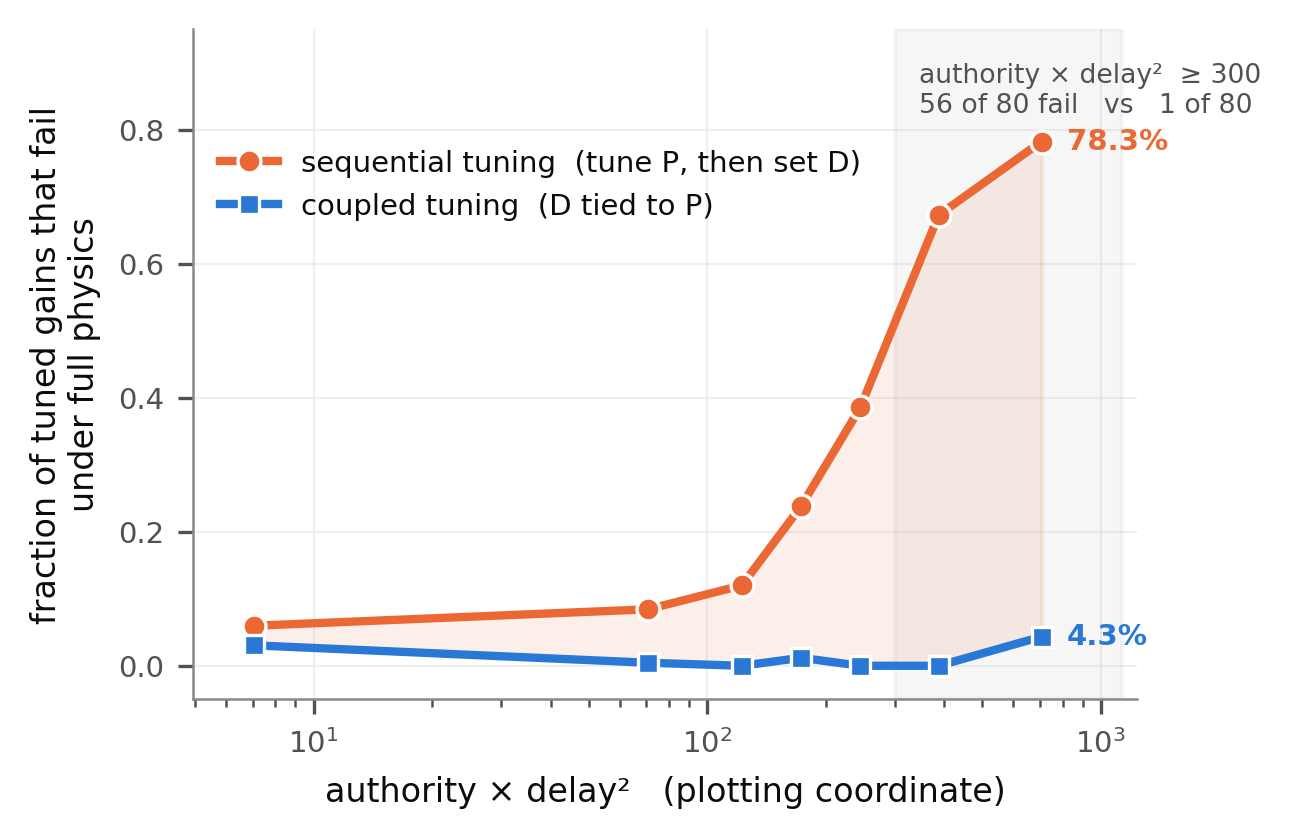
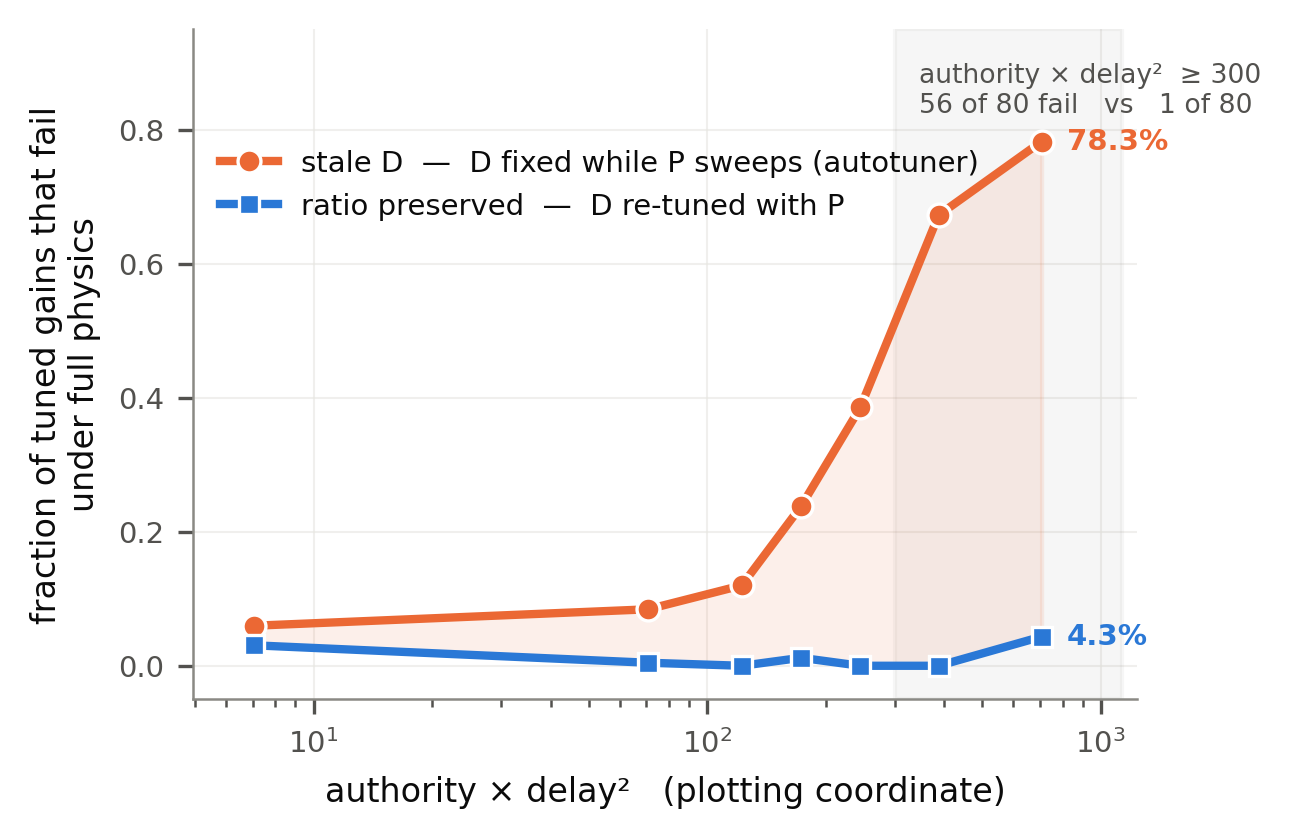
Rename the mechanism to stale-D; external validity becomes a prescription, not an ethnography
Domain correction from Braxton, 2026-08-09. Hobbyists do NOT set D once and crank P. Real manual
practice is ALTERNATING -- adjust P, re-adjust D, iteratively -- which roughly maintains the ratio
and therefore sits OUTSIDE the regime this project measured. We have no data on manual tuning at all.

Three changes, all of which make the claim narrower and more defensible:

1. NAMING. The artifact is D held fixed while P sweeps: "stale-D" or "decoupled" tuning, which is
   what autotune_continuous does (probe D once at P=40, freeze, sweep P to 320). "Sequential tuning"
   is retired as a label -- readers hear it as the normal alternating practice. Renamed in the
   outline, the claim/evidence table, CLAUDE.md, and in the legends of Figures 8 and 9, which had
   been shipping the wrong word.

2. EXTERNAL VALIDITY becomes a prescription rather than a claim about the field:
       maintain the P:D ratio; re-tune D after any change to P before judging stability
   with the audience named explicitly -- automated tuners and simulation campaigns, where D is
   commonly fixed once and P then swept. That is exactly the protocol that produced six retired
   sections of this project's own prior work, so the paper has direct evidence for that audience.
   A builder tuning by hand is already doing the right thing.

3. CLAIMS LEDGER added to paper/CLAIM_EVIDENCE_TABLE.md, recording this ruling plus the three
[…]

Changed region(s): [[0.2479, 0.1862, 0.7746, 0.2792]]

diff --git a/paper/make_sts_figures.py b/paper/make_sts_figures.py
@@ -204,7 +204,13 @@ def fig7():
 
 
 def fig8():
-    """THE key figure: same designs, same axis, only the tuner differs."""
+    """THE key figure: same designs, same axis, only what the tuner does to D when P moves.
+
+    NOTE the labelling. This is NOT "sequential vs coupled tuning" -- readers hear "sequential" as
+    ordinary manual practice, which is ALTERNATING (adjust P, re-adjust D, repeat) and preserves the
+    ratio. The artifact is specifically D held STALE while P sweeps, which is what autotuners and
+    sim campaigns do. This project measured no manual tuning (Braxton, domain correction 2026-08-09).
+    """
     d = _s2r()
     bins = [0, 50, 100, 150, 200, 300, 500, 1000]
     mid, a, b, n = [], [], [], []
@@ -216,9 +222,9 @@ def fig8():
         a.append(g.fail_a_gate035.mean()); b.append(g.fail_b_gate035.mean()); n.append(len(g))
     fig, ax = plt.subplots(figsize=(FULL * 0.58, 2.9))
     ax.plot(mid, a, color=ORANGE, lw=2.0, marker="o", ms=5.5, mec="white", mew=.8, zorder=5,
-            label="sequential tuning  (tune P, then set D)")
+            label="stale D  —  D fixed while P sweeps (autotuner)")
     ax.plot(mid, b, color=BLUE, lw=2.0, marker="s", ms=5, mec="white", mew=.8, zorder=5,
-            label="coupled tuning  (D tied to P)")
+            label="ratio preserved  —  D re-tuned with P")
     ax.fill_between(mid, b, a, color=ORANGE, alpha=.10, zorder=2)
     # Label each endpoint with ITS OWN bin value. An earlier version put the aggregate
     # Pi>=300 rates (70.0% / 1.3%) on these points, which are 78.3% / 4.3% -- two wrong
@@ -247,11 +253,11 @@ def fig8():
 
 # ---- Fig 9: the mechanism -----------------------------------------------------
 def fig9():
-    """Why sequential tuning fails: the frozen Kd is chosen at one Kp and held."""
+    """Why stale-D tuning fails: D is chosen at one probe gain and then held while P sweeps."""
     fig, ax = plt.subplots(figsize=(COL, 2.6))
     kp = np.geomspace(1, 320, 200)
-    ax.plot(kp, 0.05 * kp, color=BLUE, lw=1.8, zorder=4, label="coupled: D tracks P")
-    ax.axhline(2.0, color=ORANGE, lw=1.8, zorder=4, label="sequential: D frozen at the probe")
+    ax.plot(kp, 0.05 * kp, color=BLUE, lw=1.8, zorder=4, label="ratio preserved: D re-tuned with P")
+    ax.axhline(2.0, color=ORANGE, lw=1.8, zorder=4, label="stale D: frozen at the probe gain")
     ax.axvline(40, color=MUTED, lw=.8, ls=(0, (3, 3)), zorder=3)
     ax.annotate("D chosen here\n(probe gain, P = 40)", (40, 11), fontsize=6.2, color=INK2,
                 ha="center", va="top")

diff --git a/paper/OUTLINE_STS.md b/paper/OUTLINE_STS.md
@@ -15,6 +15,17 @@ paper that axis is called **authority×delay** and is presented as a *plotting c
 never named Π, never described as dimensionless, invariant, or a discovered parameter. The screen is
 stated in terms of the four measurable numbers (thrust, nozzle arm, Iyy, loop delay), not a composite.
 
+
+**Mechanism-naming rule (Braxton, 2026-08-09 — domain correction).** The artifact is **D held fixed
+while P sweeps** — call it **stale-D** or **decoupled** tuning. That is what `autotune_continuous`
+does: probe D once at P = 40, freeze it, sweep P to 320.
+
+**Do NOT call it "sequential tuning."** Readers hear that as normal manual practice, and normal
+manual practice is *alternating* — a builder adjusts P, then re-adjusts D, iteratively, which roughly
+maintains the ratio and therefore sits **outside** the artifact regime. **This project has no data on
+manual tuning.** Any sentence implying hobbyists tune the way the autotuner does is unsupported and
+must not appear in §6, §10, or the abstract.
+
 **All sections are decided.** The one conditional — §5's window sections — was resolved 2026-08-09 by
 `tools/window_kd_free.py`: the control passed and the window narrowing did not survive a free Kd, so
 those sections are cut. See §5.
@@ -67,7 +78,7 @@ Figure count drops to **11** with Fig 5 cut.
 
 | tag | claim | strongest number | § | fig |
 |---|---|---|---|---|
-| **C-KD** | Sequential tuning (P then D) causes the failures; coupling Kd to Kp removes them | **56/80 → 1/80** at high risk; ρ +0.236 vs −0.117 | 6 | 8, 9 |
+| **C-KD** | Holding D fixed while P sweeps (stale-D) causes the failures; re-tuning D with P removes them | **56/80 → 1/80** at high risk; ρ +0.236 vs −0.117 | 6 | 8, 9 |
 | **C-S2R** | A gain tuned in still air fails under full physics, with a monotone dose-response | 6.0% → **78.3%** across authority×delay bins, n=2400 | 6 | 7 |
 | **C-CEILING** | The usable-gain ceiling is set by loop delay, not authority — **at a fixed Kd** | keff **−0.082** CI [−0.21,+0.05]; τ **−1.067**; control ρ −0.762 vs −0.74 | 5 | 6 |
 | **C-INERTIA** | Failing builds are low-inertia builds | **100%** of the 36 failing designs below the 25th pctile of Iyy | 4 | 3 |
@@ -80,7 +91,9 @@ Figure count drops to **11** with Fig 5 cut.
 Π = keff·τ² and every dimensionless-invariant framing · the causal saturation-removal result ·
 the `window_ratio` family *as originally measured* · the binary classifier as a headline ·
 "thrust is irrelevant or protective" · "strong p_unstable interaction" ·
-"each correction strengthened the AUC"
+"each correction strengthened the AUC" · **"sequential tuning is what hobbyists do" / any claim that
+common manual practice sits inside the artifact regime** — manual practice is *alternating* and this
+project measured no manual tuning at all (Braxton, domain correction, 2026-08-09)
 
 ---
 
@@ -94,8 +107,9 @@ they are the paper's spine. Close on what the paper measures, not what it discov
 *No figure.*
 
 ### §2 Background — 0.75 pp
-What is already known: the delay-margin gain ceiling is classical (Ziegler–Nichols; standard
-sequential PID tuning is P-then-D by construction). Say plainly that **C-CEILING is a re-derivation
+What is already known: the delay-margin gain ceiling is classical. Mention Ziegler–Nichols as the
+classical *procedure* for finding gains — but do NOT use it to argue that builders leave D stale;
+that inference is not supported. Say plainly that **C-CEILING is a re-derivation
 in a new domain, not a discovery** — claiming otherwise is the fastest way to lose a controls
 reviewer. Note the absence of hobby-scale TVC in the literature. STS guidelines forbid a long
 literature history: keep it short.
@@ -103,8 +117,8 @@ literature history: keep it short.
 
 ### §3 Methods — 2.5 pp
 Simulator and the 10 fidelity modules; the 2,400-design LHS space with parameter ranges; the
-gain-search protocols (this matters — the whole paper turns on tuning method, so both the sequential
-and coupled tuners need describing precisely); disjoint seed ranges per experiment.
+gain-search protocols (this matters — the whole paper turns on tuning method, so both the stale-D
+and ratio-preserving tuners need describing precisely, in terms of what each does to D when P moves); disjoint seed ranges per experiment.
 
 **Two discipline items that belong here and are worth the space:**
 - **One success criterion, stated once.** SR ≥ 0.80 throughout. Where the earlier work reported
@@ -205,8 +219,9 @@ Build it in this order:
 
 1. **The phenomenon (C-S2R).** Still-air-tuned gains fail under full physics, monotone in
    authority×delay: 6.0% → 78.3% across bins, n=2400. Report the **curve**, one threshold.
-2. **The cause (C-KD).** Two arms on the same 2,400 designs, differing only in the tuner. Arm A
-   (sequential, the standard method) reproduces the published curve **bin by bin** — quote
+2. **The cause (C-KD).** Two arms on the same 2,400 designs, differing only in what the tuner does
+   to D when P moves. Arm A (**stale D** — D probed once at P = 40 and frozen while P sweeps to 320,
+   which is what the autotuner does) reproduces the published curve **bin by bin** — quote
    0.120/0.120 and 0.238/0.238 as the exact hits. Arm B (Kd tied to Kp) gives 0.022 → 0.013.
    ρ vs authority×delay: **+0.236** (p=1e-31) vs **−0.117** (wrong sign). Failure at high risk **56 of 80 → 1 of 80** designs.
    **Report counts, not a 1-decimal rate:** 1/80 = 1.25%, so "1.3%" and "1.2%" are both rounding
@@ -215,9 +230,18 @@ Build it in this order:
 3. **The mechanism.** `autotune_continuous` probes Kd once at Kp=40, freezes it, sweeps Kp to 320;
    designs whose best gain lands far from the probe get a mismatched Kd, and the mismatch grows with
    authority×delay.
-4. **Why it generalizes.** Sequential tuning is the standard method — Ziegler–Nichols finds Ku with
-   D off, then reads Kd from a table. **This needs the firmware survey to be a claim about the
-   field** (see Gaps). Without it, state it as: the textbook method fails on high-risk designs.
+4. **External validity — state it as a PRESCRIPTION, not an ethnography.** The paper has no data on
+   how humans tune, and manual practice is *alternating* (adjust P, re-adjust D, repeat), which
+   roughly preserves the ratio and therefore sits outside the regime measured here. So the claim is
+   **not** "this is what builders do." It is:
+
+   > **Maintain the P:D ratio. Re-tune D after any change to P, before judging stability.**
+
+   Say who this squarely applies to: **automated tuners and simulation campaigns**, where D is
+   commonly fixed once and P is then swept — exactly the protocol that produced six retired sections
+   of this project's own prior work. That is a concrete, checkable audience, and the paper has direct
+   evidence for it. A builder tuning by hand is already doing the right thing; the value to them is
+   knowing *why* the ratio matters and what it costs when it slips.
 
 *Fig 7 — failure rate vs authority×delay, the dose-response curve.
 Fig 8 — the two arms overlaid: same designs, same axis, one line each. The paper's key figure.
@@ -267,7 +291,9 @@ otherwise, with the ASC038 qualification. The failing-design label is soft. Sequ
 *the community's* practice is argued, not yet surveyed.
 
 ### §10 Impact for builders — 0.75 pp
-**Impact paragraph, not the thesis.** Tie Kd to Kp rather than tuning them separately. Screen a
+**Impact paragraph, not the thesis.** Maintain the P:D ratio — re-tune D after any change to P
+before judging stability. Aim this at autotuners and sim campaigns; do NOT imply hand-tuners are
+doing it wrong, since alternating manual practice already preserves the ratio. Screen a
 design before cutting metal from four measurable numbers. Use 0.042/τ as a conservative gain limit.
 One instrumented flight at a known gain diagnoses a marginal build.
 

diff --git a/paper/CLAIM_EVIDENCE_TABLE.md b/paper/CLAIM_EVIDENCE_TABLE.md
@@ -7,13 +7,13 @@ Recover the sim-phase CSVs first: `git archive bb22d36^ experiments/results tool
 
 ---
 
-## C1 — Sequential gain tuning fails; coupled tuning fixes it  *(the headline)*
+## C1 — Stale-D tuning fails; preserving the P:D ratio fixes it  *(the headline)*
 
-| | Π < 300 | Π ≥ 300 | ρ(log Π, fail) |
+| | auth×delay < 300 | auth×delay ≥ 300 | ρ vs auth×delay |
 |---|---|---|---|
-| **Arm A** — sequential (P then D), original protocol | 0.087 | **0.700** | **+0.236** (p = 1e-31) |
+| **Arm A** — stale D (D fixed at P=40, P swept to 320) | 0.087 | **56 of 80 = 0.700** | **+0.236** (p = 1e-31) |
 | published result | 0.091 | 0.613 | — |
-| **Arm B** — coupled (Kd = 0.05·Kp) | 0.022 | **0.013** | −0.117 (wrong sign) |
+| **Arm B** — ratio preserved (Kd = 0.05·Kp) | 0.022 | **1 of 80 = 0.0125** | −0.117 (wrong sign) |
 
 Bin-by-bin reproduction (Arm A vs published): 0.060/0.068 · 0.084/0.093 · **0.120/0.120** ·
 **0.238/0.238** · 0.386/0.313 · 0.673/0.582 · 0.783/0.696
@@ -22,8 +22,10 @@ Bin-by-bin reproduction (Arm A vs published): 0.060/0.068 · 0.084/0.093 · **0.
   reproducing means reproducing. Arm B uses 340001–340015.
 - Mechanism: `autotune_continuous` probes Kd once at Kp = 40, freezes it, sweeps Kp to 320.
 - **Evidence:** `tools/s2r_replication.py` → `experiments/results/s2r_replication_py.csv`; commit `589c29e`
-- **Must state:** that sequential tuning is the standard method (Ziegler–Nichols is sequential) is
-  currently an argument, not a citation. Needs the firmware survey — see gap G1.
+- **Must state (framing ledger, 2026-08-09):** call this **stale-D**, never "sequential tuning" —
+  manual practice is *alternating* and preserves the ratio, so it sits outside this regime. External
+  validity is a **prescription** (maintain the P:D ratio; re-tune D after any P change before judging
+  stability) aimed at **autotuners and sim campaigns**, not an ethnographic claim about builders.
 
 ## C2 — The gain ceiling is set by delay and is independent of authority
 
@@ -83,12 +85,31 @@ the four-number screen as a *controllability* screen (AUC 0.985 on the original 
 
 ---
 
+## Claims ledger — framing constraints (violations must not drift back in)
+
+| date | ruling | why |
+|---|---|---|
+| 2026-08-09 | **The mechanism is "stale-D" / "decoupled" tuning — D held fixed while P sweeps. NEVER call it "sequential tuning."** | Readers hear "sequential" as ordinary manual practice. Real manual practice is **alternating** (adjust P, re-adjust D, repeat), which roughly preserves the ratio and sits **outside** the artifact regime. *(Braxton, domain knowledge.)* |
+| 2026-08-09 | **No claim that common practice sits inside the artifact regime.** External validity is a **prescription**, not an ethnography: *maintain the P:D ratio; re-tune D after any change to P before judging stability.* Audience: **autotuners and simulation campaigns.** | This project measured **zero** manual tuning. The evidence is about what an autotuner does — which is exactly the protocol that produced six retired sections of this project's own prior work. |
+| 2026-08-09 | Axis called **authority × delay**, a plotting coordinate. Never Π, never "dimensionless", never "invariant". | Braxton's claims-out list. Four self-inflicted violations were caught in the outline before it shipped. |
+| 2026-08-09 | Report **counts** for the headline (56/80 vs 1/80), not a one-decimal rate. | 1/80 = 1.25%; "1.3%" and "1.2%" are both rounding artifacts of a single event. 95% Wilson CIs [59.2%, 78.9%] vs [0.22%, 6.75%] are non-overlapping — the honest way to show it survives its own uncertainty. |
+
+**Consequence for gap G1.** The firmware survey was scoped to establish that sequential tuning is
+the community's practice. That claim is now **withdrawn as unsupportable**, so G1 no longer buys
+external validity for C-KD and drops well down the priority list. If it is run at all, the only
+question it can answer is narrower and more honest: *do any hobby TVC firmwares ship an autotuner,
+and does it hold D stale while sweeping P?* Most ship hand-set gains, so the likely finding is "not
+applicable" — which is itself worth one sentence in §9 rather than a weekend of reading.
+
+---
+
 ## Gaps, ranked by how much they'd improve the paper
 
-**G1 — Establish that sequential tuning is common practice.** Survey the three GitHub firmwares
-already audited in `HEADLINE_FINAL.md`, published build logs, BPS.space's documented process. Not a
-simulation. This is what makes C1 a claim about the field rather than about one script. **Highest
-value remaining.**
+**G1 — [DOWNGRADED 2026-08-09] Firmware autotuner survey.** Originally scoped to show sequential
+tuning is common practice; that claim is withdrawn (see the ledger — manual practice is alternating
+and preserves the ratio). What remains is narrow: do any hobby TVC firmwares ship an autotuner, and
+does it hold D stale while sweeping P? Most ship hand-set gains, so expect "not applicable" — one
+sentence in §9. **No longer the highest-value item; G2/G3 now lead.**
 
 **G2 — Measure τ on the vehicle.** `Firmware/Bench_Latency/`. Every hardware prediction is indexed on
 it and currently uses an assumed 0.035 s. Half a day.

diff --git a/CLAUDE.md b/CLAUDE.md
@@ -64,9 +64,9 @@ same designs:
 
 | | Π < 300 | Π ≥ 300 |
 |---|---|---|
-| Arm A — sequential tuning (P then D), the published protocol | 0.087 | **0.700** |
+| Arm A — stale D (D fixed at P=40 while P sweeps to 320) | 0.087 | **0.700** |
 | published | 0.091 | 0.613 |
-| Arm B — coupled tuning (Kd tied to Kp) | 0.022 | **0.013** |
+| Arm B — ratio preserved (Kd tied to Kp) | 0.022 | **0.013** |
 
 Arm A reproduces the published curve **bin by bin**; Arm B is identical except the tuner ties Kd to
 Kp. ρ(log Π, fail): A = +0.236 (p = 1e-31), B = −0.117 (wrong sign). Failure at high Π drops
@@ -75,8 +75,14 @@ Report counts rather than a 1-decimal rate — 1/80 = 1.25%, so "1.3%" was a rou
 
 Mechanism: `autotune_continuous` probes Kd once at Kp = 40, freezes it, then sweeps Kp to 320, so
 designs whose best gain lands far from the probe get a mismatched Kd — and the mismatch grows with
-authority × delay. Sequential tuning is the *standard* method (Ziegler–Nichols is sequential), so
-this is a finding about common practice, not about one script.
+authority × delay.
+
+⚠ **NAMING (Braxton, domain correction 2026-08-09).** Call this **stale-D** or **decoupled** tuning,
+never "sequential tuning" — readers hear that as ordinary manual practice, and manual practice is
+**alternating** (adjust P, re-adjust D, repeat), which preserves the ratio and sits OUTSIDE this
+regime. This project measured no manual tuning. External validity is a **prescription** — *maintain
+the P:D ratio; re-tune D after any change to P before judging stability* — aimed at **autotuners and
+simulation campaigns**, not a claim about what builders do.
 
 Same cause, four independent appearances: the `window_ratio` family (floor inflated 1.8–2.9×, keff
 exponent +1.06 → +0.21 → −0.20), the gain ceiling (**8.8× higher** with Kd free), sim-to-real
